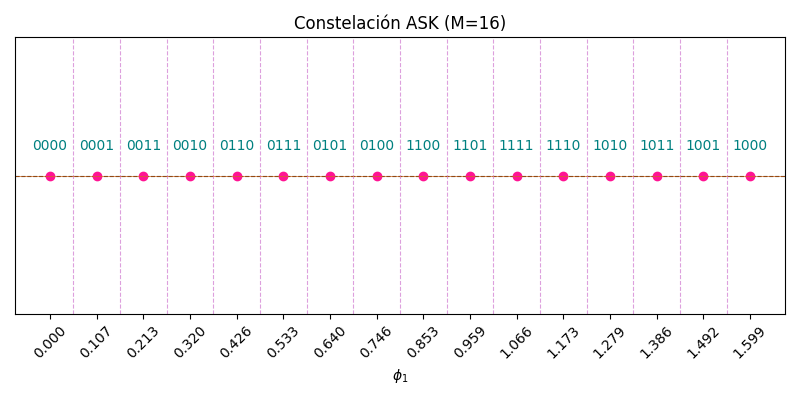
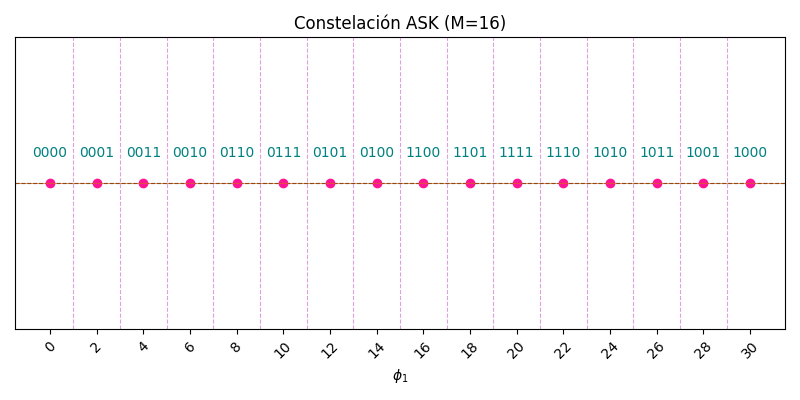
ya funciona la pe para psk y ask

Changed region(s): [[0.0312, 0.78, 0.9688, 0.9], [0.0312, 0.42, 0.9688, 0.48], [0.0312, 0.33, 0.9688, 0.39]]

diff --git a/graficarMontecarlo.py b/graficarMontecarlo.py
@@ -1,4 +1,3 @@
-import numpy as np
 from matplotlib import pyplot as plt
 
 from Probabilidades import *
@@ -8,39 +7,69 @@ def procesarPuntos2VA(nombreArchivo):
     y = datos_simul[:, 1]
     return y
 
-
-tipoConstelacion='ASK'
+#Usar CTRL + R para cambiar la modulacion en todos las variables del archivo
+tipoConstelacion='PSK'
 
 
 EbNoDB = np.arange(0, 11, 1)  # Eb/N0 en dB
 SNR = 10**(EbNoDB / 10)
 
 
-Pe2_ASK = procesarPuntos2VA(f'probasDeError/2-{tipoConstelacion}')
-Pe4_ASK= procesarPuntos2VA(f'probasDeError/4-{tipoConstelacion}')
-Pe8_ASK = procesarPuntos2VA(f'probasDeError/8-{tipoConstelacion}')
-Pe16_ASK = procesarPuntos2VA(f'probasDeError/16-{tipoConstelacion}')
+Pe2_PSK = procesarPuntos2VA(f'probasDeError/2-{tipoConstelacion}')
+Pe4_PSK= procesarPuntos2VA(f'probasDeError/4-{tipoConstelacion}')
+Pe8_PSK = procesarPuntos2VA(f'probasDeError/8-{tipoConstelacion}')
+Pe16_PSK = procesarPuntos2VA(f'probasDeError/16-{tipoConstelacion}')
 
 
-teorica_2_ASK = pes_teorica(tipoConstelacion, 2, SNR)
-teorica_4_ASK = pes_teorica(tipoConstelacion, 4, SNR)
-teorica_8_ASK = pes_teorica(tipoConstelacion, 8, SNR)
-teorica_16_ASK = pes_teorica(tipoConstelacion, 16, SNR)
+teorica_2_PSK = pes_teorica(tipoConstelacion, 2, SNR)
+teorica_4_PSK = pes_teorica(tipoConstelacion, 4, SNR)
+teorica_8_PSK = pes_teorica(tipoConstelacion, 8, SNR)
+teorica_16_PSK = pes_teorica(tipoConstelacion, 16, SNR)
 
 
 fig=plt.figure()
 plt.grid(True)
-plt.loglog(EbNoDB, Pe2_ASK,'o', label=f'2-{tipoConstelacion} simulada')
-plt.loglog(EbNoDB, teorica_2_ASK, label=f'2-{tipoConstelacion} teorica')
-plt.loglog(EbNoDB, Pe4_ASK,'o', label=f'4-{tipoConstelacion} simulada')
-plt.loglog(EbNoDB, teorica_4_ASK, label=f'4-{tipoConstelacion} teorica')
-plt.loglog(EbNoDB, Pe8_ASK,'o', label=f'8-{tipoConstelacion} simulada')
-plt.loglog(EbNoDB, teorica_8_ASK, label=f'8-{tipoConstelacion} teorica')
-plt.loglog(EbNoDB, Pe16_ASK,'o', label=f'16-{tipoConstelacion} simulada')
-plt.loglog(EbNoDB, teorica_16_ASK, label=f'16-{tipoConstelacion} teorica')
+plt.semilogy(EbNoDB, Pe2_PSK,'o', label=f'2-{tipoConstelacion} simulada', color='hotpink')
+plt.semilogy(EbNoDB, teorica_2_PSK, label=f'2-{tipoConstelacion} teorica', color='hotpink')
+plt.semilogy(EbNoDB, Pe4_PSK,'o', label=f'4-{tipoConstelacion} simulada', color='cornflowerblue')
+plt.semilogy(EbNoDB, teorica_4_PSK, label=f'4-{tipoConstelacion} teorica', color='cornflowerblue')
+plt.semilogy(EbNoDB, Pe8_PSK,'o', label=f'8-{tipoConstelacion} simulada', color='peru')
+plt.semilogy(EbNoDB, teorica_8_PSK, label=f'8-{tipoConstelacion} teorica', color='peru')
+plt.semilogy(EbNoDB, Pe16_PSK,'o', label=f'16-{tipoConstelacion} simulada', color='orchid')
+plt.semilogy(EbNoDB, teorica_16_PSK, label=f'16-{tipoConstelacion} teorica', color='orchid')
 
-
+plt.title('Probabilidad de error de simbolo')
 plt.ylabel('Probabilidad de error')
 plt.xlabel('EbNo')
 plt.legend()
+
+
+fig2 = plt.figure()
+
+Pb2_PSK = peb_psk(Pe2_PSK,2)
+Pb4_PSK = peb_psk(Pe4_PSK,4)
+Pb8_PSK = peb_psk(Pe8_PSK,8)
+Pb16_PSK = peb_psk(Pe16_PSK,16)
+
+
+Pb_teorica_2_PSK = peb_psk(teorica_2_PSK,2)
+Pb_teorica_4_PSK = peb_psk(teorica_4_PSK,4)
+Pb_teorica_8_PSK = peb_psk(teorica_8_PSK,8)
+Pb_teorica_16_PSK = peb_psk(teorica_16_PSK,16)
+
+plt.grid(True)
+plt.semilogy(EbNoDB, Pb2_PSK,'o', label=f'2-{tipoConstelacion} simulada', color='hotpink')
+plt.semilogy(EbNoDB, Pb_teorica_2_PSK, label=f'2-{tipoConstelacion} teorica', color='hotpink')
+plt.semilogy(EbNoDB, Pb4_PSK,'o', label=f'4-{tipoConstelacion} simulada', color='cornflowerblue')
+plt.semilogy(EbNoDB, Pb_teorica_4_PSK, label=f'4-{tipoConstelacion} teorica', color='cornflowerblue')
+plt.semilogy(EbNoDB, Pb8_PSK,'o', label=f'8-{tipoConstelacion} simulada', color='peru')
+plt.semilogy(EbNoDB, Pb_teorica_8_PSK, label=f'8-{tipoConstelacion} teorica', color='peru')
+plt.semilogy(EbNoDB, Pb16_PSK,'o', label=f'16-{tipoConstelacion} simulada', color='orchid')
+plt.semilogy(EbNoDB, Pb_teorica_16_PSK, label=f'16-{tipoConstelacion} teorica', color='orchid')
+
+plt.ylabel('Probabilidad de error')
+plt.xlabel('EbNo')
+plt.title('Probabilidad de error de bit')
+plt.legend()
+
 plt.show()

diff --git a/montecarlo.py b/montecarlo.py
@@ -11,7 +11,7 @@ k = int(np.log2(M))
 #n es la cantidad de veces q lo genera (va a ser cuantos arrays queremos hacer)
 m = 1 #cuantos arrays diferentes queremos, estos luego los promedio. Serian m filas de n_bits! Tengo que promediar el resultado de Pe de cada fila.
 p = 0.5
-n_bits = 4*10**6#4*10**3 #van a ser columnas
+n_bits = 4*10**3#4*10**3 #van a ser columnas
 bit_array_send = np.random.binomial(m,p,n_bits)
 # bit_array_send = [1,1,1,0]
 
@@ -19,7 +19,7 @@ EbNoDB = np.arange(0, 11, 1)  # Eb/N0 en dB
 SNR = 10**(EbNoDB / 10) # Eb/N0 lineal en veces
 
 
-tipoConstelacion = 'FSK'
+tipoConstelacion = 'QAM'
 modulacion = Constelacion(d,M,tipoConstelacion)
 modulacion.graficar() # quiero ver el grafico de ASK
 
@@ -29,7 +29,7 @@ Es,Eb = modulacion.calcularEnergias()
 #ASK , FSK-> sigma^2 = No/2
 #SNR = Eb/No o ES/No
 
-sigma_cuad = 1/(2*SNR)
+sigma_cuad = Eb/(2*SNR)
 std = np.sqrt(sigma_cuad)
 
 print(f"Eb: {Eb} \n std: {std}")
@@ -52,8 +52,8 @@ for i in std:
     #P_acierto = modulacion.tasaDeError(simbolos_decodificados, bit_array_send) tasa de error esta contando las diferencias por lo que ya devuelve el Perror, no el de acierto
     p_error = modulacion.tasaDeError(simbolos_decodificados,bit_array_send)
     Pe.append( p_error )
-    print(f"Desvio: {i} Probabilidad de error estimada: {p_error} Teorica: {teorica[j]}\n")
-    j+=1
+    # print(f"Desvio: {i} Probabilidad de error estimada: {p_error} Teorica: {teorica[j]}\n")
+    # j+=1
 guardarCurva(EbNoDB, Pe, f'probasDeError/{M}-{tipoConstelacion}')
 
 
@@ -64,8 +64,8 @@ plt.title(f'Probabilidades de error para {M}-{tipoConstelacion}')
 plt.grid(True,which='both')
 plt.xlabel("SNR [dB]")
 plt.ylabel("Pe")
-plt.semilogx(EbNoDB,Pe,label= 'estimada')
-plt.semilogx(EbNoDB,teorica,label= 'teorica')
+plt.semilogy(EbNoDB,Pe,'o',label= 'estimada')
+plt.semilogy(EbNoDB,teorica,label= 'teorica')
 plt.legend()
 plt.show()
 

diff --git a/Modulaciones.py b/Modulaciones.py
@@ -2,21 +2,19 @@ from  graficadores import *
 
 def normalizar_constelacion(sim):
 
-    sim = np.array(sim, dtype=complex)
+    # sim = np.array(sim, dtype=complex)
     potencia_promedio = np.mean(np.abs(sim) ** 2)
-
     return sim / np.sqrt(potencia_promedio)
 
 def binary_to_gray(binary):
     return binary ^ (binary >> 1)
 
 def ask(d, M):
-    symbols = np.arange(0, (((M - 1) / 2) + 1) * 2) * d
+    symbols = np.arange(0, M) * d
     n=len(symbols)
-    symbols = normalizar_constelacion(symbols)
-    symbols = np.real(symbols)
-    d_norm = symbols[1]-symbols[0] # lo harcodeo
-    umbrales= symbols[0:n-2] + (d_norm / 2)
+    # symbols = normalizar_constelacion(symbols)
+    # symbols = np.real(symbols)
+    umbrales= symbols[0:n-1] + (d / 2)
 
     binary_labels = np.arange(M)  # Etiquetas binarias [0, 1, ..., M-1]
     gray_labels = [binary_to_gray(b) for b in binary_labels]
@@ -31,7 +29,8 @@ def psk(d, M):
     radio = d / (2 * np.sin(alpha / 2))
     angles = np.linspace(0, 2 * np.pi, M, endpoint=False)
 
-    symbols = normalizar_constelacion(radio * np.exp(1j * angles))
+    symbols= radio * np.exp(1j * angles)
+    # symbols = normalizar_constelacion(symbols)
 
     ang_umbrales= np.zeros(M)
 
@@ -61,15 +60,14 @@ def qam(d, M):
         y = y.flatten() - ((size - 1) / 2) * d
         symbols = x + 1j * y
 
-    symbols = normalizar_constelacion(symbols)
+    # symbols = normalizar_constelacion(symbols)
 
     # Calcular el valor normalizado
     size = int(np.sqrt(M))
-    d_norm = np.abs(symbols[0] - symbols[1])
 
     umbrales = []
     for i in range(1, size):
-        umbrales.append( i * d_norm - (size / 2) * d_norm)
+        umbrales.append( i * d - (size / 2) * d)
     umbrales = np.array(umbrales)
 
 

diff --git a/graficadores.py b/graficadores.py
@@ -88,7 +88,7 @@ def graficar_qam(umbrales, gray_map):
     fig = plt.figure()
     plt.axhline(0, color='chocolate', linewidth=0.8, linestyle='--')
     plt.axvline(0, color='chocolate', linewidth=0.8, linestyle='--')
-    for i in umbrales.real:
+    for i in np.real(umbrales):
         plt.axhline(i, color='plum', linestyle='--', lw=1)
         plt.axvline(i, color='plum', linestyle='--', lw=1)
 
